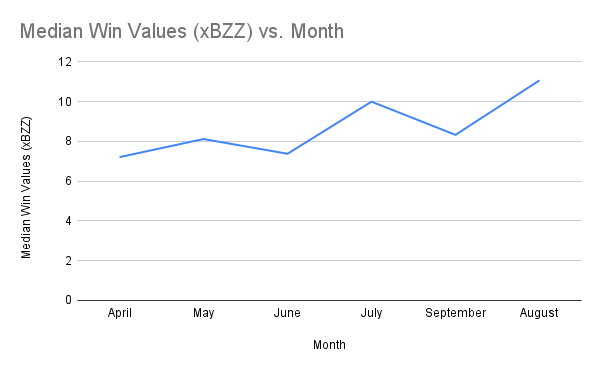
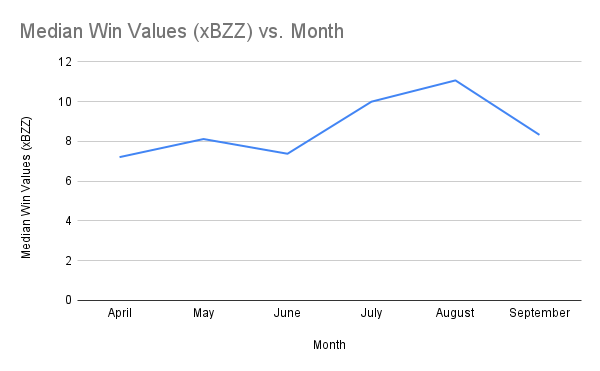
image and date

diff --git a/content/foundation/posts/swarm-state-of-the-network-september-2025.md b/content/foundation/posts/swarm-state-of-the-network-september-2025.md
@@ -1,10 +1,11 @@
+
 +++
 draft = true
 banner = "/uploads/sotn-september-25.jpg"
 images = [ "/uploads/sotn-september-25.jpg" ]
 categories = [ "Development updates" ]
-date = 2025-10-16T00:00:00.000Z
-description = "September marked a month of recalibration for the Swarm network following two strong months of growth in July and August. While total rewards and win values adjusted downward from August’s peak, the network maintained strong participation levels, and both active and reachable node counts remained stable."
+date = 2025-10-20T00:00:00.000Z
+description = "September marked a month of recalibration for the Swarm network, following two strong months of growth in July and August. While total rewards and win values adjusted downward from August’s peak, the network maintained strong participation levels, and both active and reachable node counts remained stable."
 references_and_footnotes = [ ]
 title = "State of the Network: September 2025"
 _template = "post"
@@ -13,164 +14,154 @@ slug="state-of-the-network-september-2025"
 
 ### **September 2025 State of the Network Report**
 
-September marked a month of recalibration for the Swarm network following two strong months of growth in July and August. While total rewards and win values adjusted downward from August’s peak, the network maintained strong participation levels, and both active and reachable node counts remained stable. This steady participation suggests that while payouts have normalized, the network continues to sustain a broad and active operator base after the summer’s surge.
+September marked a month of recalibration for the Swarm network, following two strong months of growth in July and August. While total rewards and win values adjusted downward from August’s peak, the network maintained strong participation levels, and both active and reachable node counts remained stable. This steady participation suggests that while payouts have normalized, the network continues to sustain a broad and active operator base after the summer’s surge.
 
 {{< admonition info >}}
-"***Active nodes***" are full nodes identified by a unique Gnosis Chain address with the required minimum staked xBZZ that have submitted a [commit](https://docs.ethswarm.org/docs/concepts/incentives/redistribution-game/#redistribution-game-details) transaction during the month.
+***Active nodes*** are full nodes identified by a unique Gnosis Chain address with the required minimum staked xBZZ that have submitted a [commit](https://docs.ethswarm.org/docs/concepts/incentives/redistribution-game/#redistribution-game-details) transaction during the month.
 {{< /admonition >}}
 
 {{< admonition info >}}
 All rewards are denominated in xBZZ. Since the fiat value of xBZZ fluctuates monthly, these metrics may not reflect the real-world returns for node operators.
 {{< /admonition >}}
 
-
 ## Network Total Monthly Rewards
 
-This metric shows the total storage incentives rewards paid out across the entire network for each month.
+This metric shows the total storage incentive rewards paid out across the entire network for each month.
 
-| Month    | Total Network Rewards (xBZZ) |
-| -------- | ---------------------------- |
-| April    | 24,441                       |
-| May      | 27,851                       |
-| June     | 24,545                       |
-| July     | 37,249                       |
-| August   | 41,496                       |
-| September| 28,162                       |
+| Month     | Total Network Rewards (xBZZ) |
+| --------- | ---------------------------- |
+| April     | 24,441                       |
+| May       | 27,851                       |
+| June      | 24,545                       |
+| July      | 37,249                       |
+| August    | 41,496                       |
+| September | 28,162                       |
 
 ![Total Network Rewards (xBZZ) vs. Month](/uploads/chart-Total-Network-Monthly-Rewards-September-2025.png)
 
-After two consecutive months of growth, total rewards in September settled at 28,162 xBZZ, returning closer to levels seen in spring. This reflects a normalization of incentives following a period of higher payouts in July and August.
-
+After two consecutive months of growth, total rewards in September settled at **28,162 xBZZ**, returning closer to levels seen in spring. This reflects a normalization of incentives following the elevated payouts in July and August.
 
 ## Monthly Median Win Values
 
-This metric is the median win amount for each win event, providing insight into the typical reward nodes can expect from a single win event.
+This metric shows the median win amount for each win event, providing insight into the typical reward nodes can expect from a single win.
 
-| Month    | Median Win Values (xBZZ) |
-| -------- | ------------------------ |
-| April    | 7.21                     |
-| May      | 8.12                     |
-| June     | 7.38                     |
-| July     | 10.00                    |
-| August   | 11.07                     |
-| September| 8.33                      |
+| Month     | Median Win Values (xBZZ) |
+| --------- | ------------------------ |
+| April     | 7.21                     |
+| May       | 8.12                     |
+| June      | 7.38                     |
+| July      | 10.00                    |
+| August    | 11.07                    |
+| September | 8.33                     |
 
 ![Median Win Values (xBZZ) vs. Month](/uploads/chart-Monthly-Median-Win-Values-September-2025.png)
 
-Median win values declined from August’s high, landing at 8.33 xBZZ. This level is still notably higher than earlier in the year, suggesting more consistent per-win rewards compared to spring months.
-
+Median win values declined from August’s high, landing at **8.33 xBZZ**. This remains notably higher than earlier in the year, indicating more consistent per-win rewards compared to the spring months.
 
 ## Monthly Average Win Values
 
-This metric shows the average win amount for each win event, offering an understanding of how the reward amounts are distributed across the network.
+This metric shows the average win amount for each win event, offering insight into how reward amounts are distributed across the network.
 
-| Month    | Average Win Values (xBZZ) |
-| -------- | ------------------------- |
-| April    | 7.51                      |
-| May      | 8.24                      |
-| June     | 7.44                      |
-| July     | 11.07                     |
-| August   | 12.28                     |
-| September| 8.60                      |
+| Month     | Average Win Values (xBZZ) |
+| --------- | ------------------------- |
+| April     | 7.51                      |
+| May       | 8.24                      |
+| June      | 7.44                      |
+| July      | 11.07                     |
+| August    | 12.28                     |
+| September | 8.60                      |
 
 ![Average Win Values (xBZZ) vs. Month](/uploads/chart-Monthly-Average-Win-Values-September-2025.png)
 
 Average win values followed a similar pattern to total rewards, declining from the August peak but remaining well above levels seen in the spring. This indicates payouts per win are still relatively strong, even with lower overall rewards.
 
-
 ## Active Staking Node Monthly Average Earnings
 
 This metric shows the average monthly earnings for an active staking node, with an "active node" defined as a node that has submitted at least one commit transaction during the month.
 
-| Month    | Avg Total Earnings per Node (xBZZ) |
-| -------- | ---------------------------------- |
-| April    | 4.88                               |
-| May      | 5.28                               |
-| June     | 4.97                               |
-| July     | 10.79                              |
-| August   | 11.33                              |
-| September| 7.73                               |
+| Month     | Avg Total Earnings per Node (xBZZ) |
+| --------- | ---------------------------------- |
+| April     | 4.88                               |
+| May       | 5.28                               |
+| June      | 4.97                               |
+| July      | 10.79                              |
+| August    | 11.33                              |
+| September | 7.73                               |
 
 ![Avg Total Earnings per Node (xBZZ) vs. Month](/uploads/chart-Avg-Total-Earnings-per-Node-September-2025.png)
 
-Average earnings per active node decreased to 7.73 xBZZ in September, but remained well above levels from earlier in the year, showing that node operators continue to earn more on average than during spring’s lower reward periods.
-
+Average earnings per active node decreased to **7.73 xBZZ** in September but remained well above levels from earlier in the year, showing that node operators continue to earn more on average than during spring’s lower reward periods.
 
 ## Total Active Staking Nodes by Month
 
-This metric shows the total number of active staking nodes, defined as full nodes that have issued at least one commit transaction during the month. This is distinct from the "active node" [count on Swarmscan](https://swarmscan.io/) which includes all "nodes that can connect to and exchange protocol messages".
+This metric shows the total number of active staking nodes, defined as full nodes that have issued at least one commit transaction during the month. This is distinct from the "active node" [count on Swarmscan](https://swarmscan.io/), which includes all "nodes that can connect to and exchange protocol messages."
 
-| Month    | Total Active Staking Nodes |
-| -------- | -------------------------- |
-| April    | 5,008                      |
-| May      | 5,277                      |
-| June     | 4,934                      |
-| July     | 3,453                      |
-| August   | 3,663                      |
-| September| 3,643                      |
+| Month     | Total Active Staking Nodes |
+| --------- | -------------------------- |
+| April     | 5,008                      |
+| May       | 5,277                      |
+| June      | 4,934                      |
+| July      | 3,453                      |
+| August    | 3,663                      |
+| September | 3,643                      |
 
-![chart-Total-Active-Staking-Nodes](/uploads/chart-Total-Active-Staking-Nodes-September-2025.png)
+![Total Active Staking Nodes (xBZZ) vs. Month](/uploads/chart-Total-Active-Staking-Nodes-September-2025.png)
 
-Active staking node counts held steady at 3,643, almost unchanged from August. This stability suggests that the recent fluctuations in rewards have not significantly impacted participation.
-
+Active staking node counts held steady at **3,643**, almost unchanged from August. This stability suggests that recent fluctuations in rewards have not significantly impacted participation.
 
 ## Total Reachable Full Nodes Regardless of Active Status
 
 This metric counts the total number of unique full nodes (as determined by unique blockchain address) that were reachable at any point in the month, providing a broader picture of network activity beyond just active committers. This is more in line with the "active node" count [found on Swarmscan](https://swarmscan.io/).
 
-| Month    | Total Reachable Full Nodes |
-| -------- | -------------------------- |
-| April    | 12,054                     |
-| May      | 9,371                      |
-| June     | 8,473                      |
-| July     | 9,753                      |
-| August   | 7,097                      |
-| September| 7,063                      |
+| Month     | Total Reachable Full Nodes |
+| --------- | -------------------------- |
+| April     | 12,054                     |
+| May       | 9,371                      |
+| June      | 8,473                      |
+| July      | 9,753                      |
+| August    | 7,097                      |
+| September | 7,063                      |
 
-![chart-Total-Reachable-Full-Nodes](/uploads/chart-Total-Reachable-Full-Nodes-September-2025.png)
+![Total Reachable Full Nodes vs. Month](/uploads/chart-Total-Reachable-Full-Nodes-September-2025.png)
 
-Reachable full nodes remained stable at 7,063, essentially matching August’s count. After several months of fluctuation, this plateau may indicate a more consistent baseline level of network participation and connectivity.
-
+Reachable full nodes remained stable at **7,063**, essentially matching August’s count. After several months of fluctuation, this plateau may indicate a more consistent baseline level of network participation and connectivity.
 
 ## Total Winning Nodes by Month
 
 This metric tracks the number of unique staking nodes that won the redistribution game at least once during the month.
 
-| Month    | Total Winning Nodes |
-| -------- | ------------------- |
-| April    | 2,197               |
-| May      | 2,052               |
-| June     | 2,197               |
-| July     | 1,806               |
-| August   | 1,738               |
-| September| 1,701               |
+| Month     | Total Winning Nodes |
+| --------- | ------------------- |
+| April     | 2,197               |
+| May       | 2,052               |
+| June      | 2,197               |
+| July      | 1,806               |
+| August    | 1,738               |
+| September | 1,701               |
 
-![chart-Number-of-Winning-Staking-Nodes-by-Month](/uploads/chart-Number-of-Winning-Staking-Nodes-by-Month-September-2025.png)
+![Number of Winning Staking Nodes by Month](/uploads/chart-Number-of-Winning-Staking-Nodes-by-Month-September-2025.png)
 
-The number of winning nodes declined slightly to 1,701, continuing the gentle downward trend observed since July. Despite this, participation levels remain broad, with a large share of nodes still winning at least once per month.
-
+The number of winning nodes declined slightly to **1,701**, continuing the gentle downward trend observed since July. Despite this, participation levels remain broad, with a large share of nodes still winning at least once per month.
 
 ## Total Active Staking Nodes by Country
 
 This metric shows the total number of active staking nodes globally for the month of September 2025.
 
-| Country         | Unique txSenders |
-|-----------------|------------------|
-| China           | 1909             |
-| Finland         | 1669             |
-| Unknown         | 49               |
-| Hungary         | 5                |
-| Estonia         | 3                |
-| United States   | 3                |
-| Germany         | 2                |
-| Japan           | 1                |
-| Martinique      | 1                |
-| Russia          | 1                |
+| Country       | Unique txSenders |
+| ------------- | ---------------- |
+| China         | 1,909            |
+| Finland       | 1,669            |
+| Unknown       | 49               |
+| Hungary       | 5                |
+| Estonia       | 3                |
+| United States | 3                |
+| Germany       | 2                |
+| Japan         | 1                |
+| Martinique    | 1                |
+| Russia        | 1                |
 
 China and Finland remained the two dominant regions in September, together representing the vast majority of active staking nodes. Their relative shares were nearly balanced this month, with China maintaining a slight lead. Smaller but steady participation continued from a handful of other countries, illustrating that while the network is geographically concentrated, it still maintains a diverse operator base.
-
 
 ## Conclusion
 
 In summary, September saw rewards and win values return to more typical levels after the highs of July and August, while participation remained steady. China and Finland continued to anchor the network’s geographic distribution, reflecting a stable and engaged operator base that supports long-term network resilience.
-
